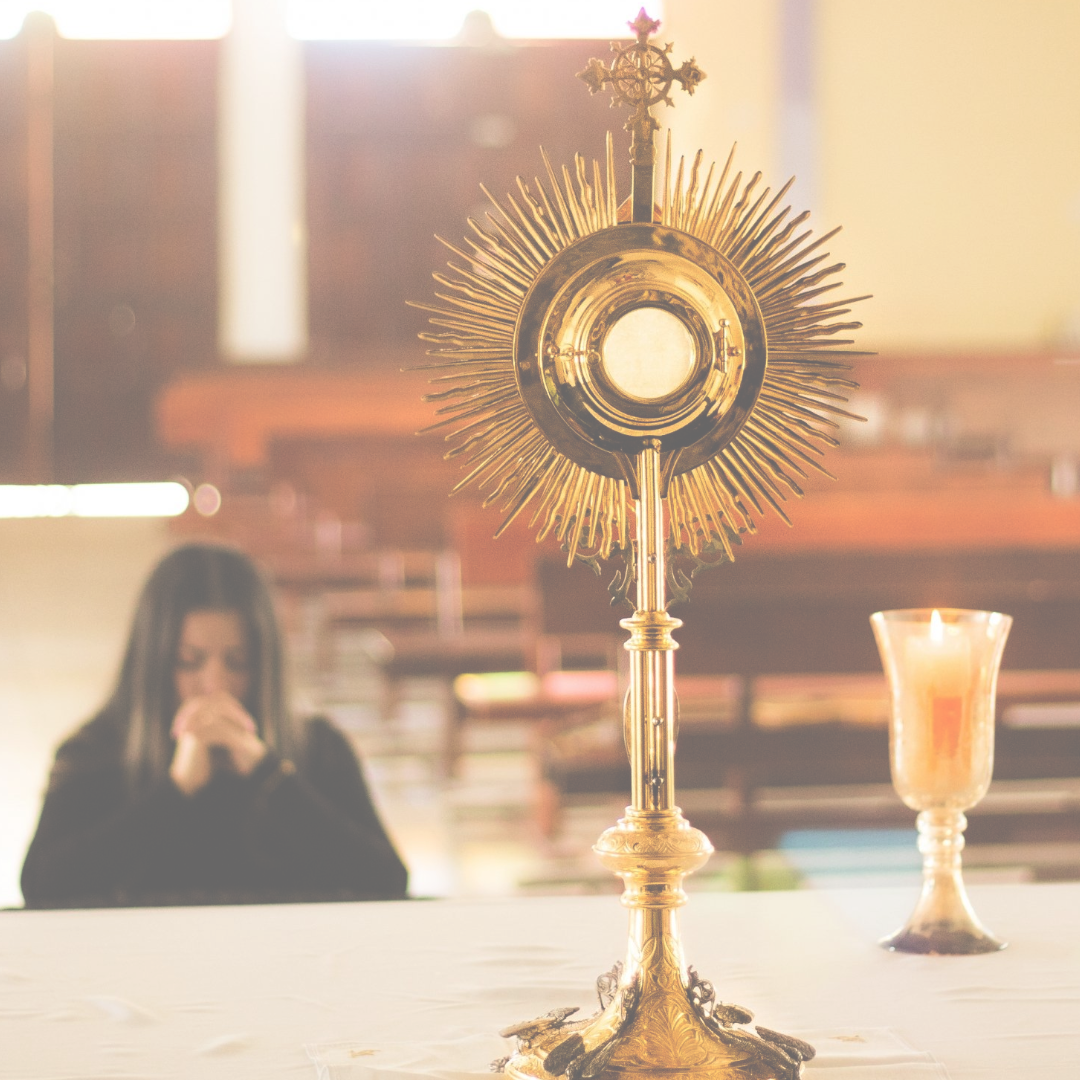
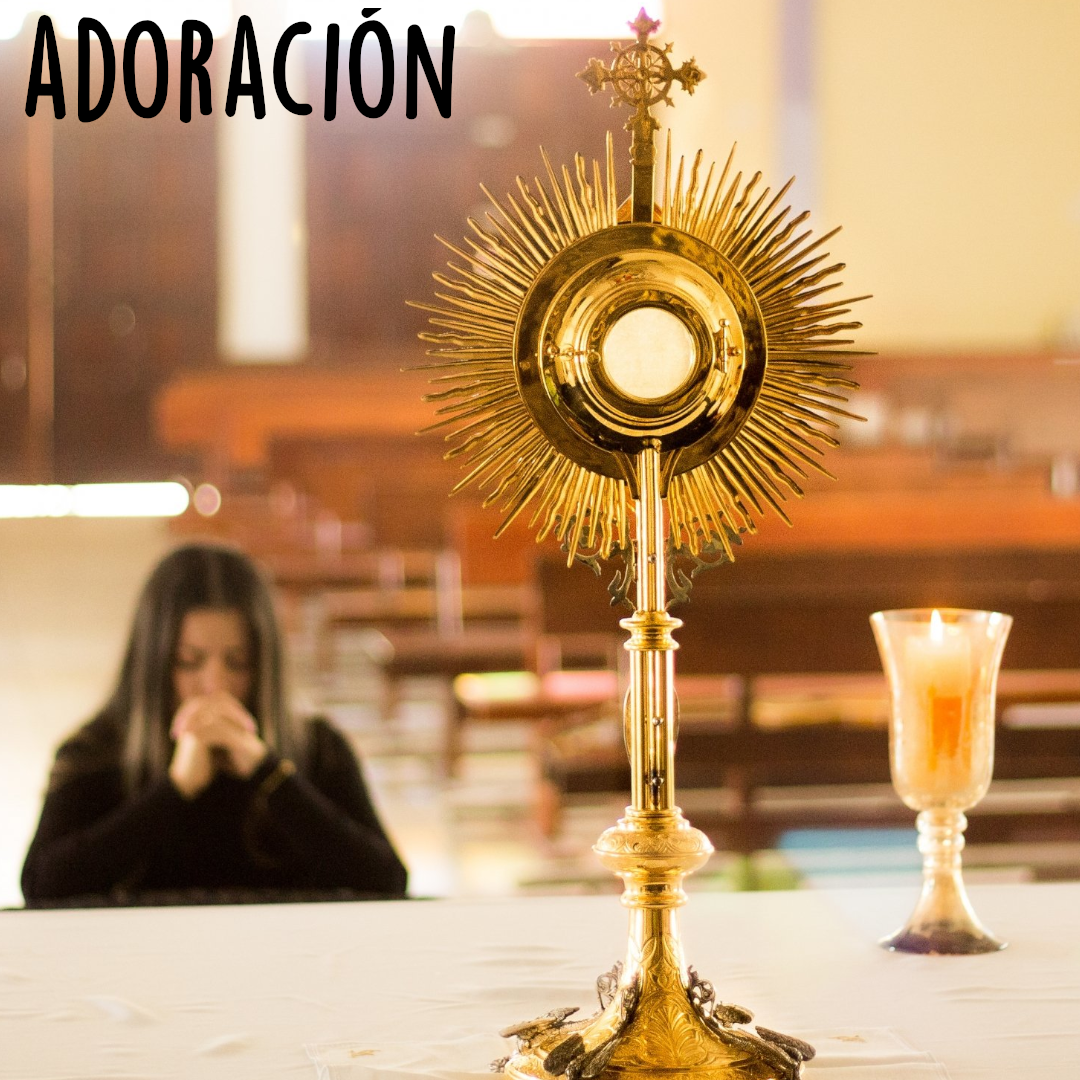
PLAYLISTS SPOTIFY

diff --git a/spotify.html b/spotify.html
@@ -196,6 +196,138 @@
 
                 </div>
             </div>
+
+                        <!--IMAGEN CON VINCULO A SPOTIFY - MISA-->
+                        <div class="col-md-4 mt-2">
+                            <div class="card bg-dark text-white">
+                                <img src="img/misa.png" class="card-img" alt="...">
+                                <div class="card-img-overlay">
+                                 <!-- Button trigger modal -->
+                                  <div class="padre">
+                                    <button type="button" class="btn spotify hijo" data-bs-toggle="modal" data-bs-target="#misa">
+                                        <img src="img/spotify.png" alt="">
+                                     </button>
+                                     
+                                  </div>
+            
+                                    <!-- Modal -->
+                                    <div class="modal fade" id="misa" tabindex="-1" aria-labelledby="misaPlay" aria-hidden="true">
+                                        <div class="modal-dialog">
+                                        <div class="modal-content">
+                                            <div class="modal-header">
+                                            <h5 class="modal-title" id="misaPlay"></h5>
+                                            <button type="button" class="btn-close" data-bs-dismiss="modal" aria-label="Close"></button>
+                                            </div>
+                                            <div class="modal-body">
+                                                <div class="row">
+                                                    <!-- SPOTIFY -->
+                                                    <iframe style="border-radius:12px" src="https://open.spotify.com/embed/playlist/5fcYliam20iDVU1O9I787G?utm_source=generator" width="100%" height="380" frameBorder="0" allowfullscreen="" 
+                                                        allow="autoplay; clipboard-write; encrypted-media; fullscreen; picture-in-picture">
+                                                    </iframe>
+                                                </div>
+                                            </div>
+                                            <div class="modal-footer">
+                                            <button type="button" class="btn btn-secondary" data-bs-dismiss="modal">Close</button>
+                                            
+                                            </div>
+                                        </div>
+                                        </div>
+                                    </div>
+                                </div>
+            
+            
+            
+                            </div>
+                        </div>
+        </div>
+        
+        <!--FILA 2-->
+        <div class="row mt-2 publicacion">
+            <!--IMAGEN CON VINCULO A SPOTIFY - INSTRUMENTALES-->
+            <div class="col-md-4 mt-2">
+                <div class="card bg-dark">
+                    <img src="img/adoracion.png" class="card-img" alt="...">
+                    <div class="card-img-overlay">
+
+                      <!-- Button trigger modal -->
+                      <div class="padre">
+                        <button type="button" class="btn spotify hijo" data-bs-toggle="modal" data-bs-target="#adoracion">
+                            <img src="img/spotify.png" alt="">
+                         </button>
+                         
+                      </div>
+
+                        <!-- Modal -->
+                        <div class="modal fade" id="adoracion" tabindex="-1" aria-labelledby="adoracionPlay" aria-hidden="true">
+                            <div class="modal-dialog">
+                            <div class="modal-content">
+                                <div class="modal-header">
+                                <h5 class="modal-title" id="adoracionPlay"></h5>
+                                <button type="button" class="btn-close" data-bs-dismiss="modal" aria-label="Close"></button>
+                                </div>
+                                <div class="modal-body">
+                                    <div class="row">
+                                        <!-- SPOTIFY -->
+                                        <iframe style="border-radius:12px" src="https://open.spotify.com/embed/playlist/6vD79imCt5ZtxTJpfMNOSR?utm_source=generator" width="100%" height="380" frameBorder="0" allowfullscreen="" 
+                                            allow="autoplay; clipboard-write; encrypted-media; fullscreen; picture-in-picture">
+                                        </iframe>
+                                    </div>
+                                </div>
+                                <div class="modal-footer">
+                                <button type="button" class="btn btn-secondary" data-bs-dismiss="modal">Close</button>
+                                
+                                </div>
+                            </div>
+                            </div>
+                        </div>
+                    </div>
+
+
+
+                </div>
+            </div>
+            <!--IMAGEN CON VINCULO A SPOTIFY - MISA-->
+            <div class="col-md-4 mt-2">
+                <div class="card bg-dark text-white">
+                    <img src="img/maria.png" class="card-img" alt="...">
+                    <div class="card-img-overlay">
+                     <!-- Button trigger modal -->
+                      <div class="padre">
+                        <button type="button" class="btn spotify hijo" data-bs-toggle="modal" data-bs-target="#maria">
+                            <img src="img/spotify.png" alt="">
+                         </button>
+                         
+                      </div>
+
+                        <!-- Modal -->
+                        <div class="modal fade" id="maria" tabindex="-1" aria-labelledby="mariaPlay" aria-hidden="true">
+                            <div class="modal-dialog">
+                            <div class="modal-content">
+                                <div class="modal-header">
+                                <h5 class="modal-title" id="mariaPlay"></h5>
+                                <button type="button" class="btn-close" data-bs-dismiss="modal" aria-label="Close"></button>
+                                </div>
+                                <div class="modal-body">
+                                    <div class="row">
+                                        <!-- SPOTIFY -->
+                                        <iframe style="border-radius:12px" src="https://open.spotify.com/embed/playlist/5bOleXfpUwaflRdLFbpVYt?utm_source=generator" width="100%" height="380" frameBorder="0" allowfullscreen="" 
+                                            allow="autoplay; clipboard-write; encrypted-media; fullscreen; picture-in-picture">
+                                        </iframe>
+                                    </div>
+                                </div>
+                                <div class="modal-footer">
+                                <button type="button" class="btn btn-secondary" data-bs-dismiss="modal">Close</button>
+                                
+                                </div>
+                            </div>
+                            </div>
+                        </div>
+                    </div>
+
+
+
+                </div>
+            </div>
             <!--IMAGEN CON VINCULO A SPOTIFY - PENTECOSTES-->
             <div class="col-md-4 mt-2">
                 <div class="card bg-dark">
@@ -223,148 +355,6 @@
                                         <iframe style="border-radius:12px" src="https://open.spotify.com/embed/playlist/0FXQjI4y9D7KfxWYVbzO2F?utm_source=generator" 
                                             width="100%" height="380" frameBorder="0" allowfullscreen="" 
                                             allow="autoplay; clipboard-write; encrypted-media; fullscreen; picture-in-picture">
-                                        </iframe>
-                                    </div>
-                                </div>
-                                <div class="modal-footer">
-                                <button type="button" class="btn btn-secondary" data-bs-dismiss="modal">Close</button>
-                                
-                                </div>
-                            </div>
-                            </div>
-                        </div>
-                    </div>
-
-
-
-                </div>
-            </div>
-        </div>
-        
-        <!--FILA 2-->
-        <div class="row mt-2">
-            <!--IMAGEN CON VINCULO A SPOTIFY - INSTRUMENTALES-->
-            <div class="col-md-4 mt-2">
-                <div class="card bg-dark text-white">
-                    <img src="img/mate.png" class="card-img" alt="...">
-                    <div class="card-img-overlay">
-                      <h5 class="card-title">Card title</h5>
-                      <p class="card-text">This is a wider card with supporting text below as a natural lead-in to additional content. This content is a little bit longer.</p>
-                      <p class="card-text">Last updated 3 mins ago</p>
-                      <!-- Button trigger modal -->
-                      <div class="padre">
-                        <button type="button" class="btn spotify hijo" data-bs-toggle="modal" data-bs-target="#exampleModal">
-                            <img src="img/spotify.png" alt="">
-                         </button>
-                         
-                      </div>
-
-                        <!-- Modal -->
-                        <div class="modal fade" id="exampleModal" tabindex="-1" aria-labelledby="exampleModalLabel" aria-hidden="true">
-                            <div class="modal-dialog">
-                            <div class="modal-content">
-                                <div class="modal-header">
-                                <h5 class="modal-title" id="exampleModalLabel">Modal title</h5>
-                                <button type="button" class="btn-close" data-bs-dismiss="modal" aria-label="Close"></button>
-                                </div>
-                                <div class="modal-body">
-                                    <div class="row">
-                                        <!-- SPOTIFY -->
-                                        <iframe style="border-radius:12px" src="https://open.spotify.com/embed/playlist/6LqoQdZlkCCMGrAvUUGcQJ?utm_source=generator" 
-                                          width="100%" height="380" frameBorder="0" allowfullscreen="" 
-                                          allow="autoplay; clipboard-write; encrypted-media; fullscreen; picture-in-picture">
-                                        </iframe>
-                                    </div>
-                                </div>
-                                <div class="modal-footer">
-                                <button type="button" class="btn btn-secondary" data-bs-dismiss="modal">Close</button>
-                                
-                                </div>
-                            </div>
-                            </div>
-                        </div>
-                    </div>
-
-
-
-                </div>
-            </div>
-            <!--IMAGEN CON VINCULO A SPOTIFY - SALMOS-->
-            <div class="col-md-4 mt-2">
-                <div class="card bg-dark text-white">
-                    <img src="img/mate.png" class="card-img" alt="...">
-                    <div class="card-img-overlay">
-                      <h5 class="card-title">Card title</h5>
-                      <p class="card-text">This is a wider card with supporting text below as a natural lead-in to additional content. This content is a little bit longer.</p>
-                      <p class="card-text">Last updated 3 mins ago</p>
-                      <!-- Button trigger modal -->
-                      <div class="padre">
-                        <button type="button" class="btn spotify hijo" data-bs-toggle="modal" data-bs-target="#exampleModal">
-                            <img src="img/spotify.png" alt="">
-                         </button>
-                         
-                      </div>
-
-                        <!-- Modal -->
-                        <div class="modal fade" id="exampleModal" tabindex="-1" aria-labelledby="exampleModalLabel" aria-hidden="true">
-                            <div class="modal-dialog">
-                            <div class="modal-content">
-                                <div class="modal-header">
-                                <h5 class="modal-title" id="exampleModalLabel">Modal title</h5>
-                                <button type="button" class="btn-close" data-bs-dismiss="modal" aria-label="Close"></button>
-                                </div>
-                                <div class="modal-body">
-                                    <div class="row">
-                                        <!-- SPOTIFY -->
-                                        <iframe style="border-radius:12px" src="https://open.spotify.com/embed/playlist/6LqoQdZlkCCMGrAvUUGcQJ?utm_source=generator" 
-                                          width="100%" height="380" frameBorder="0" allowfullscreen="" 
-                                          allow="autoplay; clipboard-write; encrypted-media; fullscreen; picture-in-picture">
-                                        </iframe>
-                                    </div>
-                                </div>
-                                <div class="modal-footer">
-                                <button type="button" class="btn btn-secondary" data-bs-dismiss="modal">Close</button>
-                                
-                                </div>
-                            </div>
-                            </div>
-                        </div>
-                    </div>
-
-
-
-                </div>
-            </div>
-            <!--IMAGEN CON VINCULO A SPOTIFY - ADORACION-->
-            <div class="col-md-4 mt-2">
-                <div class="card bg-dark text-white">
-                    <img src="img/mate.png" class="card-img" alt="...">
-                    <div class="card-img-overlay">
-                      <h5 class="card-title">Card title</h5>
-                      <p class="card-text">This is a wider card with supporting text below as a natural lead-in to additional content. This content is a little bit longer.</p>
-                      <p class="card-text">Last updated 3 mins ago</p>
-                      <!-- Button trigger modal -->
-                      <div class="padre">
-                        <button type="button" class="btn spotify hijo" data-bs-toggle="modal" data-bs-target="#exampleModal">
-                            <img src="img/spotify.png" alt="">
-                         </button>
-                         
-                      </div>
-
-                        <!-- Modal -->
-                        <div class="modal fade" id="exampleModal" tabindex="-1" aria-labelledby="exampleModalLabel" aria-hidden="true">
-                            <div class="modal-dialog">
-                            <div class="modal-content">
-                                <div class="modal-header">
-                                <h5 class="modal-title" id="exampleModalLabel">Modal title</h5>
-                                <button type="button" class="btn-close" data-bs-dismiss="modal" aria-label="Close"></button>
-                                </div>
-                                <div class="modal-body">
-                                    <div class="row">
-                                        <!-- SPOTIFY -->
-                                        <iframe style="border-radius:12px" src="https://open.spotify.com/embed/playlist/6LqoQdZlkCCMGrAvUUGcQJ?utm_source=generator" 
-                                          width="100%" height="380" frameBorder="0" allowfullscreen="" 
-                                          allow="autoplay; clipboard-write; encrypted-media; fullscreen; picture-in-picture">
                                         </iframe>
                                     </div>
                                 </div>
